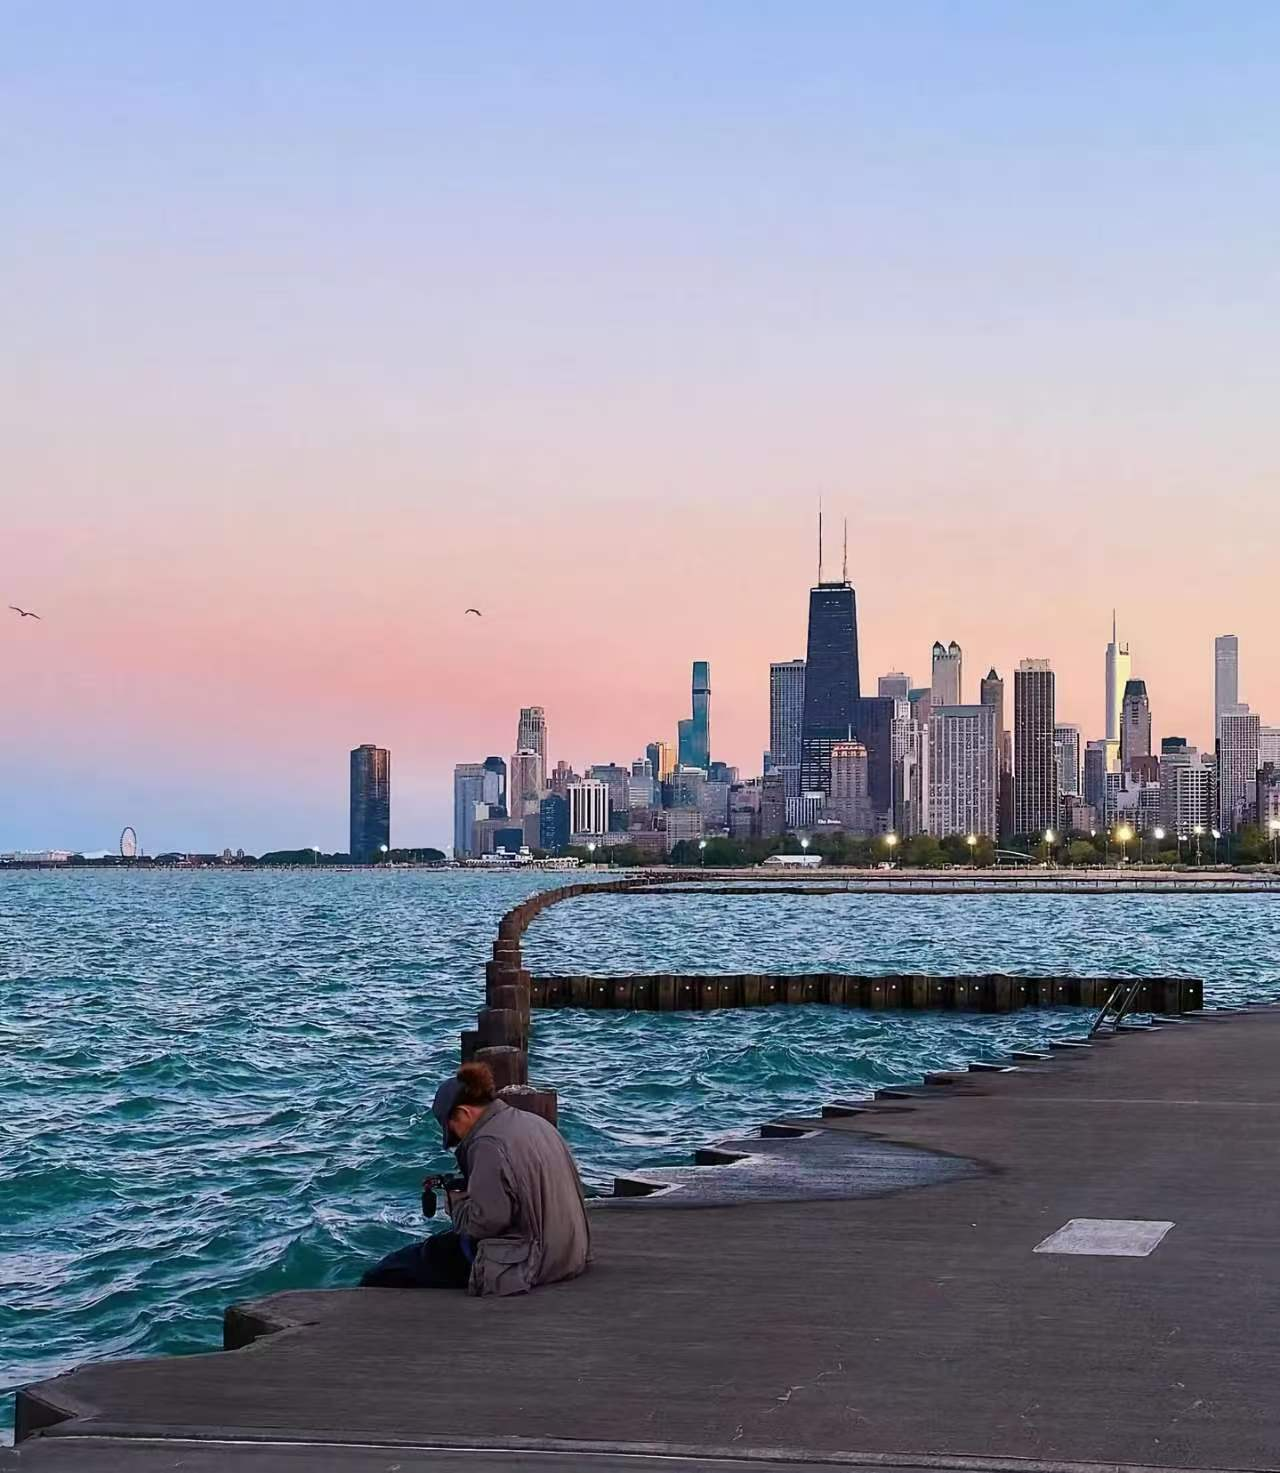
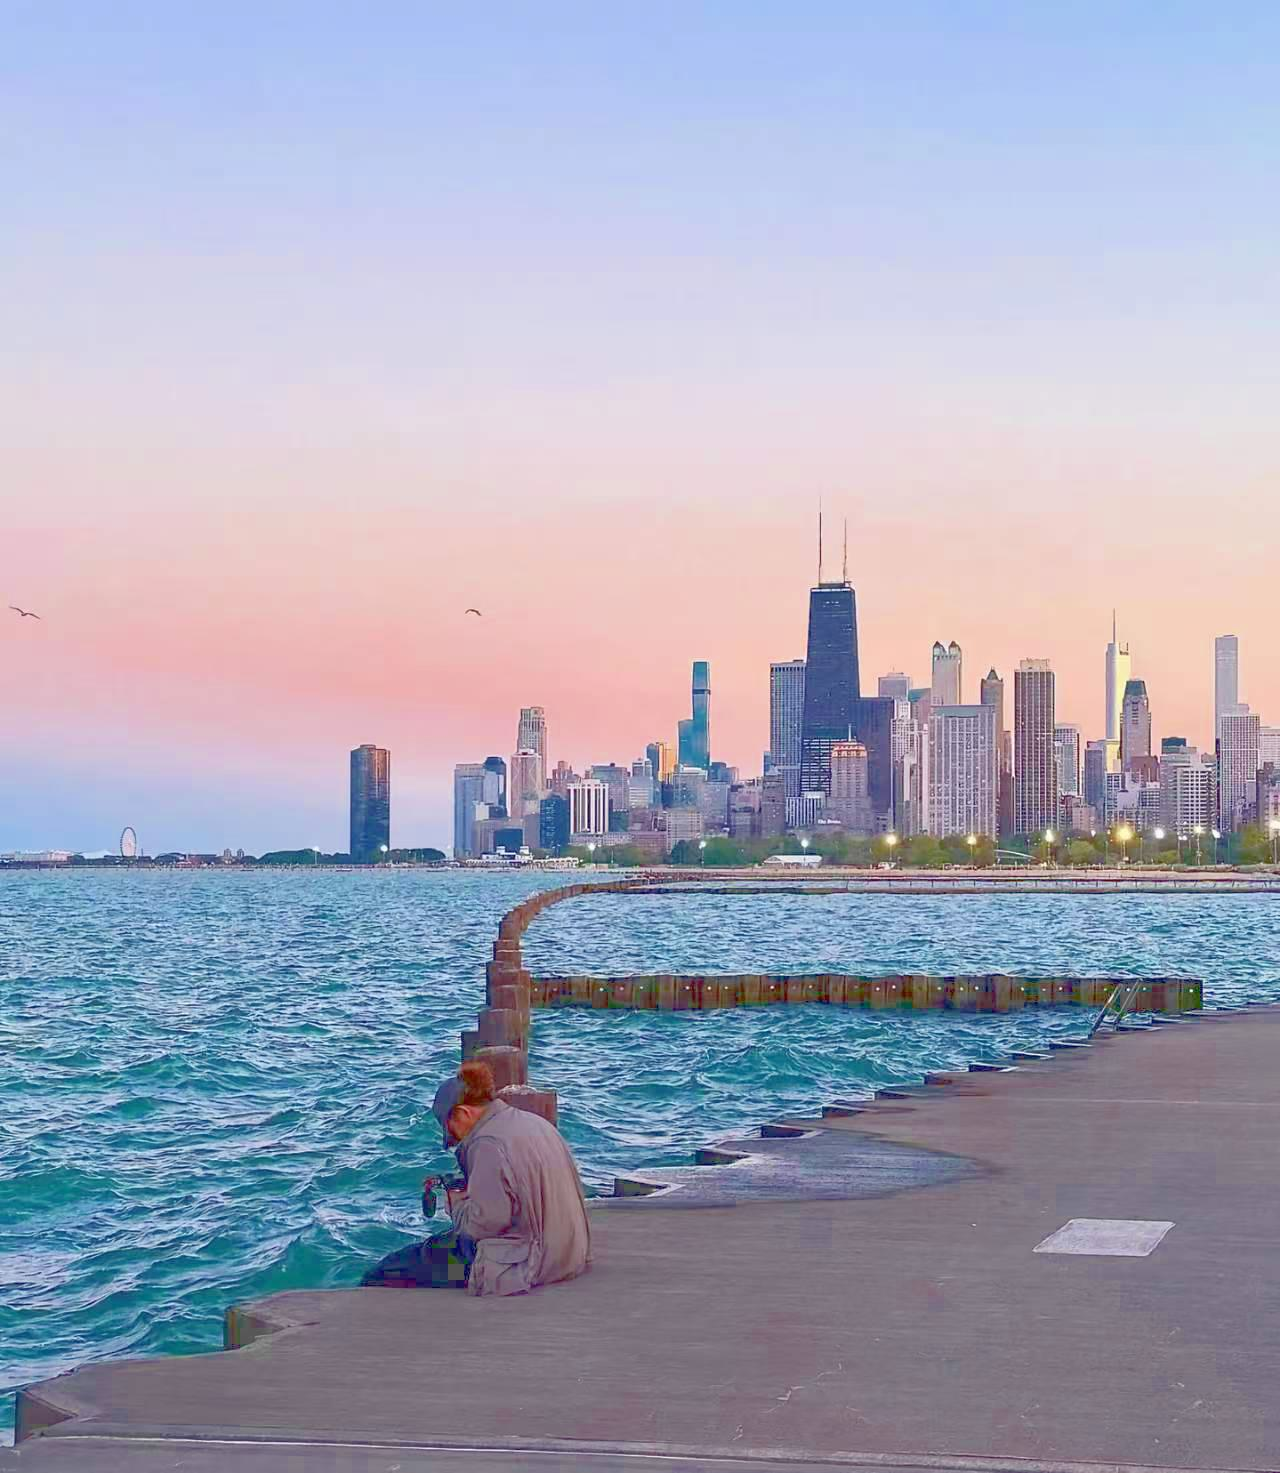
提亮背景暗部、加深文字颜色提升对比度

diff --git a/src/styles/global.css b/src/styles/global.css
@@ -1,8 +1,8 @@
 :root {
   --bg: #f3f5fb;
-  --text: #0f172a;
-  --muted: #475569;
-  --cyan: #0e7490;
+  --text: #0b1220;
+  --muted: #334155;
+  --cyan: #0a6e80;
   --violet: #7c3aed;
   --pink: #db2777;
   --orange: #ea580c;
@@ -77,7 +77,6 @@ nav {
   font-weight: 700;
   color: var(--text);
   letter-spacing: 0.5px;
-  text-shadow: 0 1px 8px rgba(255, 255, 255, 0.65);
 }
 .brand .dot {
   color: var(--violet);
@@ -175,7 +174,6 @@ footer {
   line-height: 1.18;
   margin: 0.6rem 0 0.9rem;
   letter-spacing: -0.5px;
-  text-shadow: 0 1px 12px rgba(255, 255, 255, 0.6);
 }
 .hero h1 .grad {
   background: linear-gradient(90deg, var(--cyan), var(--violet), var(--pink));
